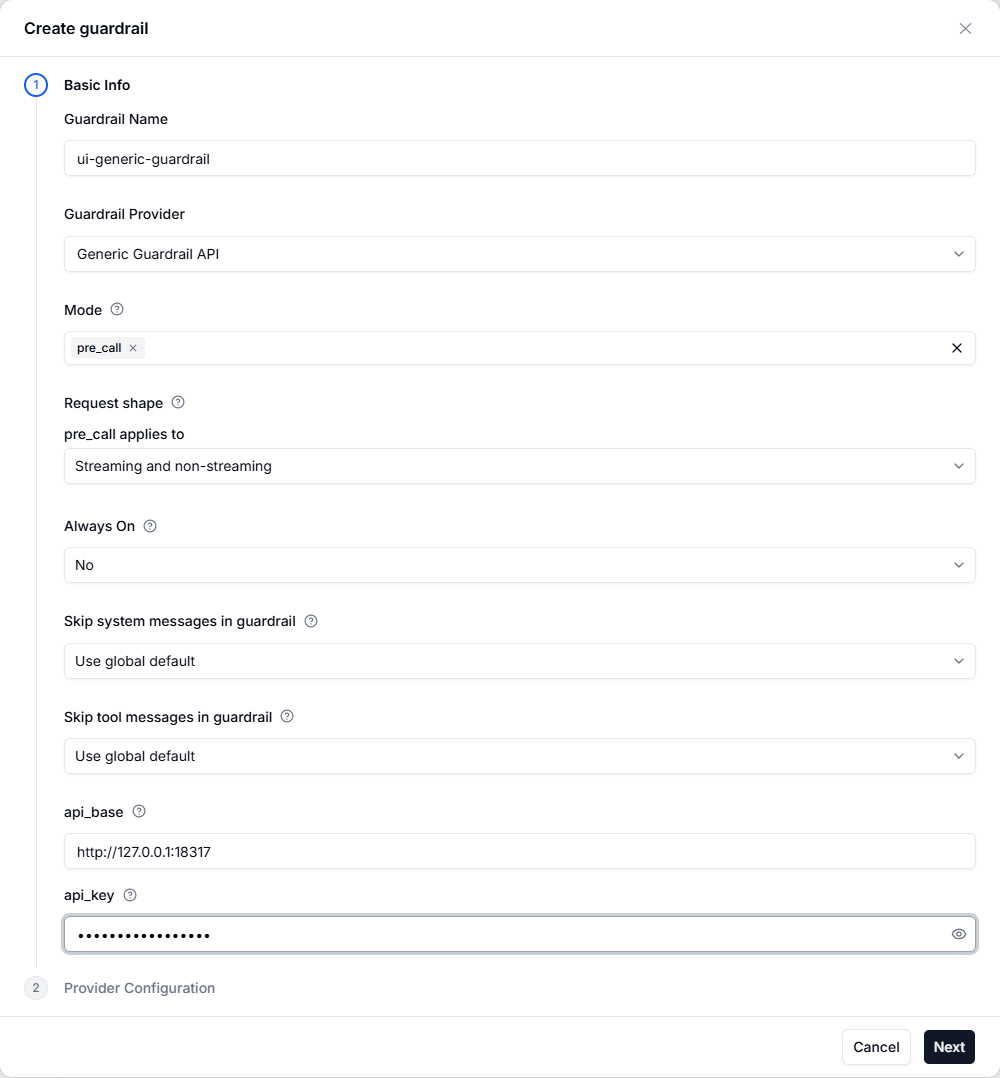
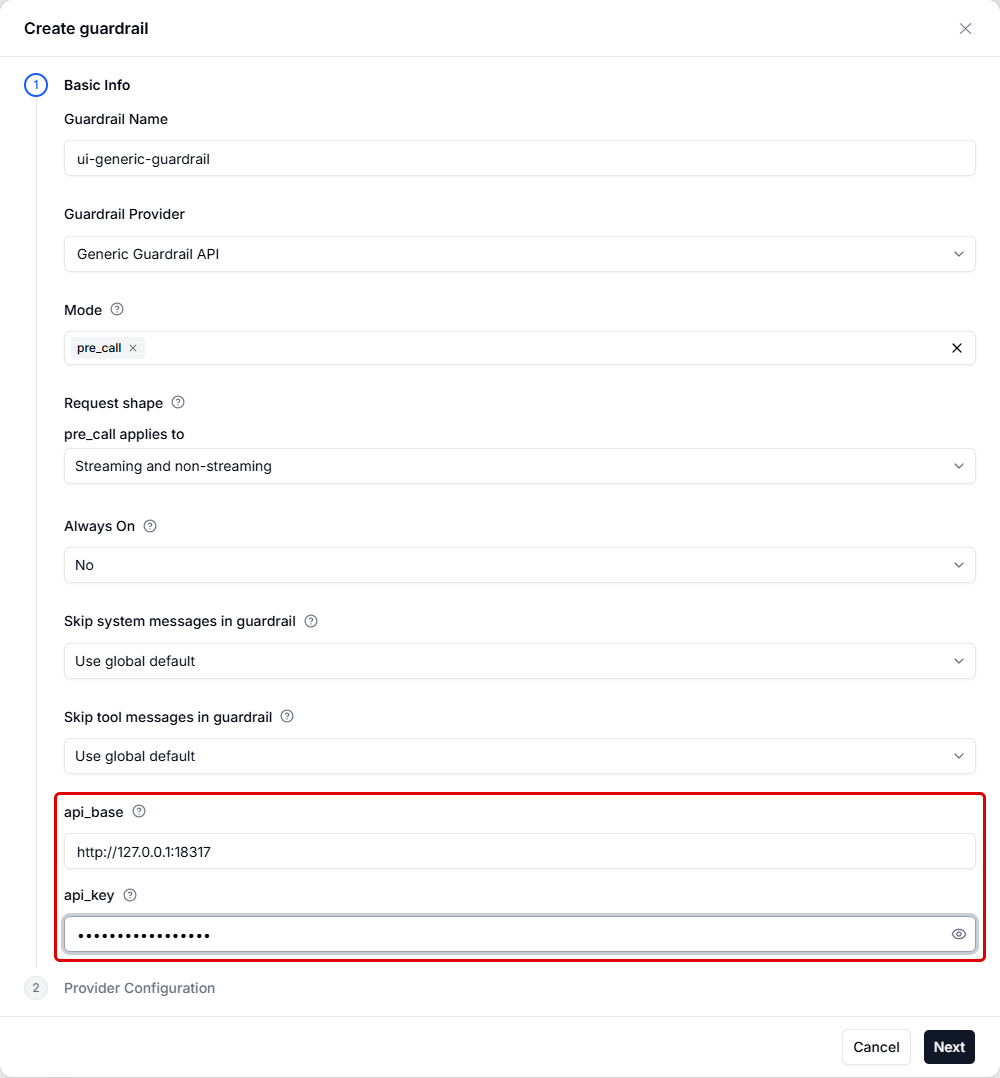
docs: refresh guardrail connection field proof for 7d1a275f2b

Changed region(s): [[0.961, 0.7347, 0.992, 0.7653], [0.031, 0.7347, 0.062, 0.7653]]

diff --git a/README.md b/README.md
@@ -2,16 +2,18 @@
 
 Screenshots and the stand-in service behind the proof in BerriAI/litellm#48317, taken on 2026-11-01
 
-- Before: `901b7f762f` (BerriAI/litellm main)
-- After: `f38498305d` (the PR branch, main plus the fix)
+- Before: `60fc121ce8` (BerriAI/litellm main)
+- After: `7d1a275f2b` (the PR branch, main plus the fix)
 
-Both legs ran the proxy on 127.0.0.1:4317 with PostgreSQL 16.2 and the dashboard build committed on main, and the screenshots come from headless Chrome at 1440x1400. The red boxes were drawn by the screenshot script
+Both legs ran the proxy on 127.0.0.1:4317 against a fresh PostgreSQL 16.2 database, with the dashboard build committed on main. The screenshots come from headless Chrome at 1440x1400, driven by a Playwright script, and the red boxes were drawn by that script
 
 | File | What it shows |
 |---|---|
 | `before-form.png` | Main, Guardrails > Add New Guardrail > Add Provider Guardrail > Generic Guardrail API. Basic Info ends after "Skip tool messages in guardrail" with no URL or key input |
-| `before-create-error.png` | Main, Create Guardrail fails with "api_base is required for Generic Guardrail API" |
 | `after-form.png` | Branch, the same form now ends with the `api_base` and `api_key` inputs |
 | `after-form-filled.png` | Branch, `api_base` set to the stand-in at http://127.0.0.1:18317 and `api_key` masked |
-| `after-create-success.png` | Branch, "Guardrail created successfully" and the new guardrail row |
+| `before-create-toast.png` | Main, Create Guardrail fails with "api_base is required for Generic Guardrail API" |
+| `after-create-toast.png` | Branch, "Guardrail created successfully" |
+| `before-guardrail-list.png` | Main, the Guardrails table is still empty after the failed create |
+| `after-guardrail-list.png` | Branch, the Guardrails table lists the new guardrail |
 | `guardrail_standin.py` | The local guardrail service and chat model the proxy called, stdlib only |
